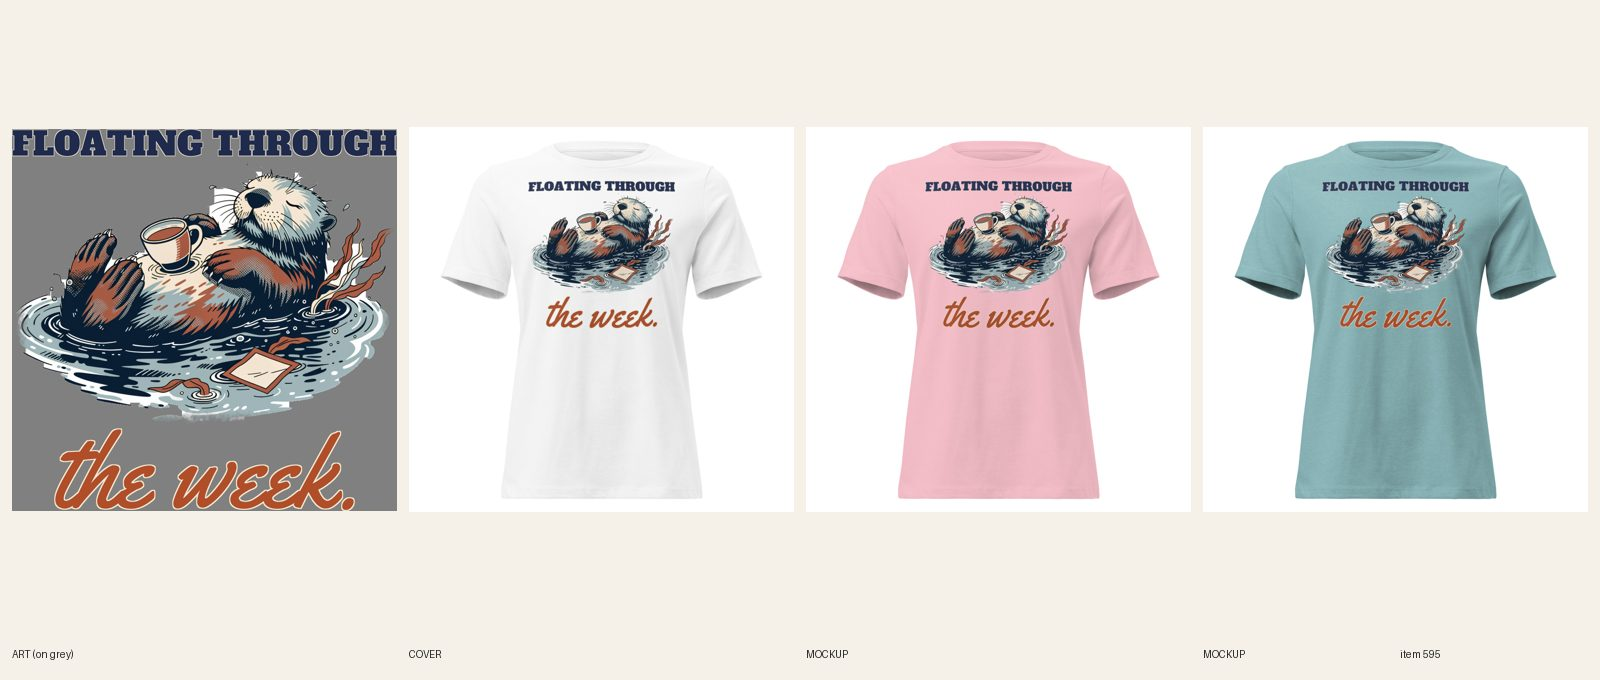
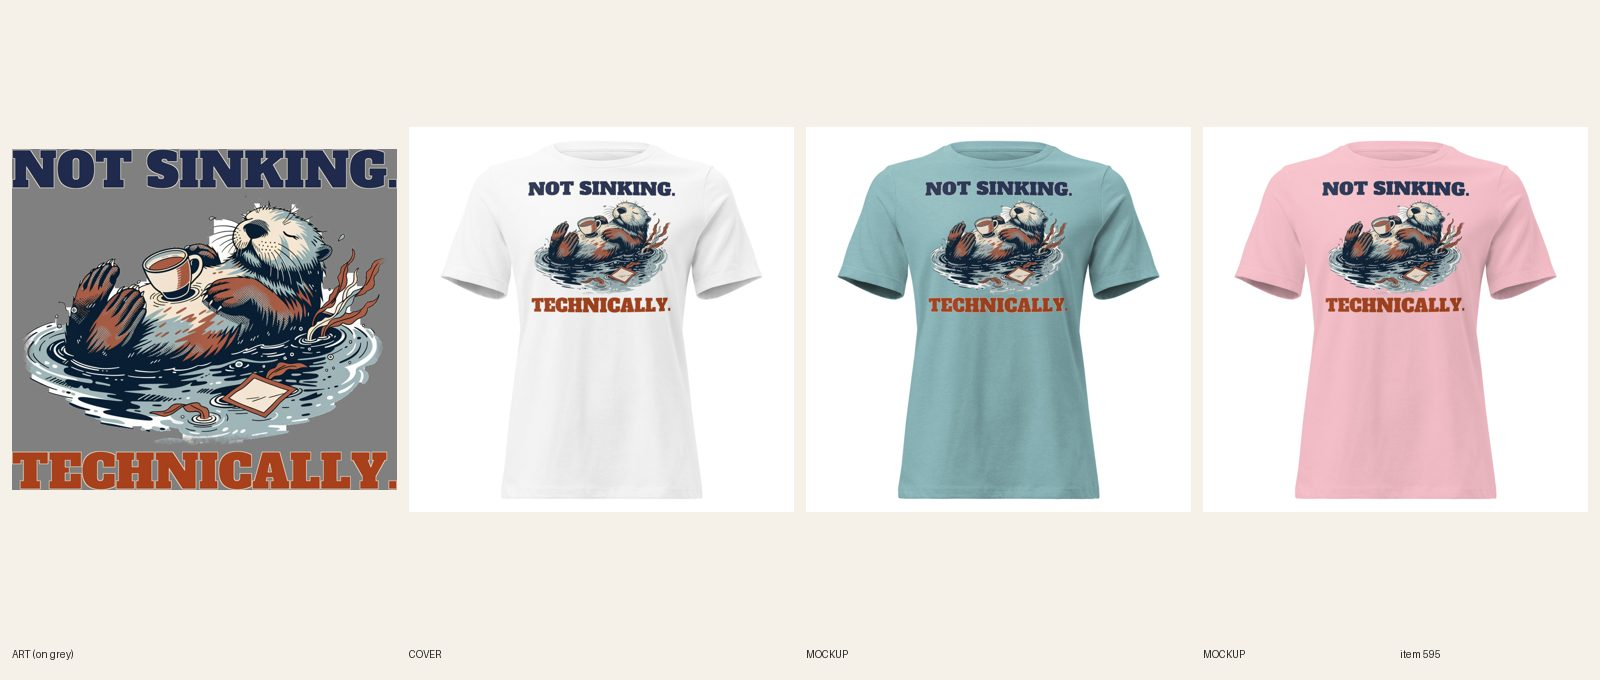
[B] review 595 602 tee redos

diff --git a/designs/camo_batch.py b/designs/camo_batch.py
@@ -1,0 +1,21 @@
+"""Camo redo batch (R11.13) for the live hunting hoodies: sources are the live Printful print files with the baked lettering cropped off."""
+import sys; sys.path.insert(0, '.')
+from designs.camo_patch import *
+S = '/tmp/claude-0/-home-user-graphicteesco/e2d59130-111b-51db-bf6c-1ae31c4d7325/scratchpad/'
+K = dict(dark=80, edge=999, blur=5, adapt=(61, 14))
+J = {
+ 841: (['PROFESSIONAL'], ['TREE SITTER'], (0, 0.26, 1, 1.0), {}),
+ 842: (['I SAW YOU MOVE.'], [], (0, 0, 1, 0.70), {}),
+ 843: (['DOE NOT'], ['DISTURB'], (0, 0, 1, 0.66), {}),
+ 844: (['LONG BEARD,'], ['SHORT TEMPER.'], (0, 0.13, 1, 0.885), {}),
+ 845: (['SIT. WAIT. SNACK.'], [], (0, 0, 1, 0.885), {}),
+ 865: (['OPENING DAY.'], ['UP AT 4.', 'SAW NOTHING.'], (0, 0, 1, 0.78), {}),
+ 866: (['NO DEER TODAY.'], ['GREAT NAP', 'THOUGH.'], (0, 0.19, 1, 1.0), {}),
+ 868: (['FLUENT IN HONK'], [], (0, 0, 1, 0.85), {}),
+ 869: (['FULL DRAW,'], ['ZERO DEER'], (0, 0.13, 1, 0.915), {}),
+ 870: (['ANTLER ENVY'], [], (0, 0, 1, 0.745), {}),
+}
+if __name__ == '__main__':
+    for n in map(int, sys.argv[1:]):
+        h, p, cr, kw = J[n]; print(n, end=' ')
+        camo(n, S + 'live%d.png' % n, h, p, crop=cr, **{**K, **kw})

diff --git a/scripts/b-pfinfo.py b/scripts/b-pfinfo.py
@@ -1,0 +1,14 @@
+#!/usr/bin/env python3
+"""b-pfinfo.py <sync product id> [outfile.png]: prints catalog product id, per-color M variant id, default file id/size/url; downloads the default file when outfile given."""
+import sys, os, json, urllib.request
+def g(p):
+    return json.load(urllib.request.urlopen(urllib.request.Request('https://api.printful.com' + p, headers={'Authorization': 'Bearer ' + os.environ['PRINTFUL_TOKEN'], 'User-Agent': 'gtc'})))['result']
+d = g('/sync/products/%s' % sys.argv[1]); vs = d['sync_variants']; seen = {}
+for v in vs:
+    c = v['name'].split(' / ')[-2]
+    if c not in seen or v['name'].endswith('/ M'): seen[c] = v['variant_id']
+print('catalog', vs[0]['product']['product_id'], vs[0]['product']['name'][:60])
+print(' '.join('%s=%s' % (c, i) for c, i in seen.items()))
+f = next(x for x in vs[0]['files'] if x['type'] in ('default', 'front'))
+print('file', f['id'], f.get('width'), f.get('height'), 'pos', {k: f.get('position', {}).get(k) for k in ('width', 'height', 'top', 'left')} if f.get('position') else None)
+if len(sys.argv) > 2: urllib.request.urlretrieve(f.get('url') or f['preview_url'], sys.argv[2]); print('saved', sys.argv[2])

diff --git a/scripts/b-sheet.py b/scripts/b-sheet.py
@@ -1,0 +1,10 @@
+#!/usr/bin/env python3
+"""b-sheet.py <id> <art.png> <mk.json[,mk2.json]> <variantA> <variantB> <variantC>: review sheet with art + 3 mockups from pf-mockup outputs (cover slot = variantA)."""
+import sys, os, json, subprocess, urllib.request
+S = os.environ['S']; n, art, mks, a, b, c = sys.argv[1:7]; mk = {}
+for f in mks.split(','): mk.update(json.load(open(os.path.join(S, f))))
+paths = []
+for i, v in enumerate((a, b, c)):
+    p = os.path.join(S, 'sheet%s_%d.jpg' % (n, i)); urllib.request.urlretrieve(mk[v]['front:main'], p); paths.append(p)
+subprocess.run(['python3', 'scripts/review-sheet.py', n, art] + paths, check=True)
+print('docs/review/%s.jpg' % n)

diff --git a/docs/pipeline/595-otter-tee-floating-through-the-week.md b/docs/pipeline/595-otter-tee-floating-through-the-week.md
@@ -1,4 +1,4 @@
-status: REDO
+status: REVIEW
 lane: B
 type: new
 id: 595
@@ -32,3 +32,4 @@ kd: 38
   1. Quality reset 'kill lines that only describe the picture' and R3.13: FLOATING THROUGH / the week. describes the otter floating; side by side with 'Politely, No.' and 'Wildly Low Maintenance' it is a mild aside, not a joke. Write 5 lines and pick one a stranger laughs at in 3 seconds. Starters: 'NOT SINKING. / TECHNICALLY.', 'HOLDING IT TOGETHER. / BARELY. (holding the mug)', 'I'M NOT DRIFTING. / I'M PACING MYSELF.'
   2. R3.7.8 and the quality-reset type bar: the punch is a script at about 75% of the headline's width and reads thin on the teal shirt. The new punch line is heavy, at least as wide as the headline.
   The otter art itself is good; keep it (new art not needed).
+- 2026-10-21 08:20 UTC [B]: REDO in place on the DRAFT. 1. New line (5 considered, R3.13): NOT SINKING. / TECHNICALLY. · HOLDING IT TOGETHER. / BARELY. · I'M NOT DRIFTING. / I'M PACING MYSELF. · THE TO-DO LIST CAN FLOAT AWAY. · FLOATING. / ONE COFFEE AT A TIME.; picked NOT SINKING. / TECHNICALLY. (the otter holds a coffee, the to-do list drifts off; a stranger gets it in 3 seconds). Title, handle (womens-otter-not-sinking-technically-graphic-tee, still DRAFT so no redirect issue), SEO and copy rewritten, keyword map and retired-covers updated. 2. Type: both lines Alfa Slab One, heavy, no script; NOT SINKING. (navy, cream keyline) 2635 px, TECHNICALLY. (rust, cream keyline) 2636 px = 100% of the headline (7h), type 540 of 2337 px = 23%, subject 2500 of 2636 = 95%. Otter art kept (no new art). File 2636 x 2337, aspect 0.89, FW 1500 TOP 75 (1330 px tall inside the 1500 x 1800 area). R7.7: 6 colors x S-3XL = 36/36 synced on default file 1090985333, back logo 1080398177 on 36/36. Mockups remade for all six colors; phone-size read of all six OK (Heather Blue Lagoon included); media replaced and attached per color; sheet docs/review/595.jpg. Audit: only 'not visible on the storefront' (still DRAFT). No fal spend (art kept).

diff --git a/docs/pipeline/602-tennis-tee-love-means-nothing-to-me.md b/docs/pipeline/602-tennis-tee-love-means-nothing-to-me.md
@@ -1,4 +1,4 @@
-status: REDO
+status: REVIEW
 lane: B
 type: new
 id: 602
@@ -31,3 +31,4 @@ kd: 35
 - 2026-10-21 07:35 UTC director: REDO (type). LOVE MEANS / NOTHING TO ME. is a good tennis double meaning. Send back:
   1. Quality reset type bar ('never a thin script on a dark or mid garment'): LOVE MEANS is a thin monoline script and is unreadable in red on Heather Mauve. Re-set it in a heavy face (it may stay a heavy brush script) at least 45% of the punch's height, in navy on the light colors.
   2. R5.3.8: check every color's mockup at phone size; if red on Mauve still fails after the change, drop Mauve or use a navy setup line there.
+- 2026-10-21 08:21 UTC [B]: REDO in place on the DRAFT. 1. LOVE MEANS re-set in Bowlby One (heavy), navy with a cream keyline, no script: 1152 px wide and 0.99 of the punch's height (brief: at least 45%); NOTHING TO ME. stays Alfa Slab One navy at 1590 px (punch 138% of the setup, 109% of the art width, 7h). The red setup is gone, so no red on Heather Mauve. 2. R5.3.8 phone-size check of all six mockups: navy on White, Natural, Heather Stone, Athletic Heather, Pink and Heather Mauve all read, Mauve kept. File 1590 x 2106, aspect 1.32, FW 1300 TOP 75 (still the 6400 area limit, 1719 px tall + 75 inside 1800). R7.7: 36/36 synced on default file 1090985809, back logo 1080398177 on 36/36. Media replaced and attached; copy line fixed (both lines heavy navy, no red script); sheet docs/review/602.jpg. Audit: only 'not visible on the storefront' (still DRAFT). No new art, no fal spend.
